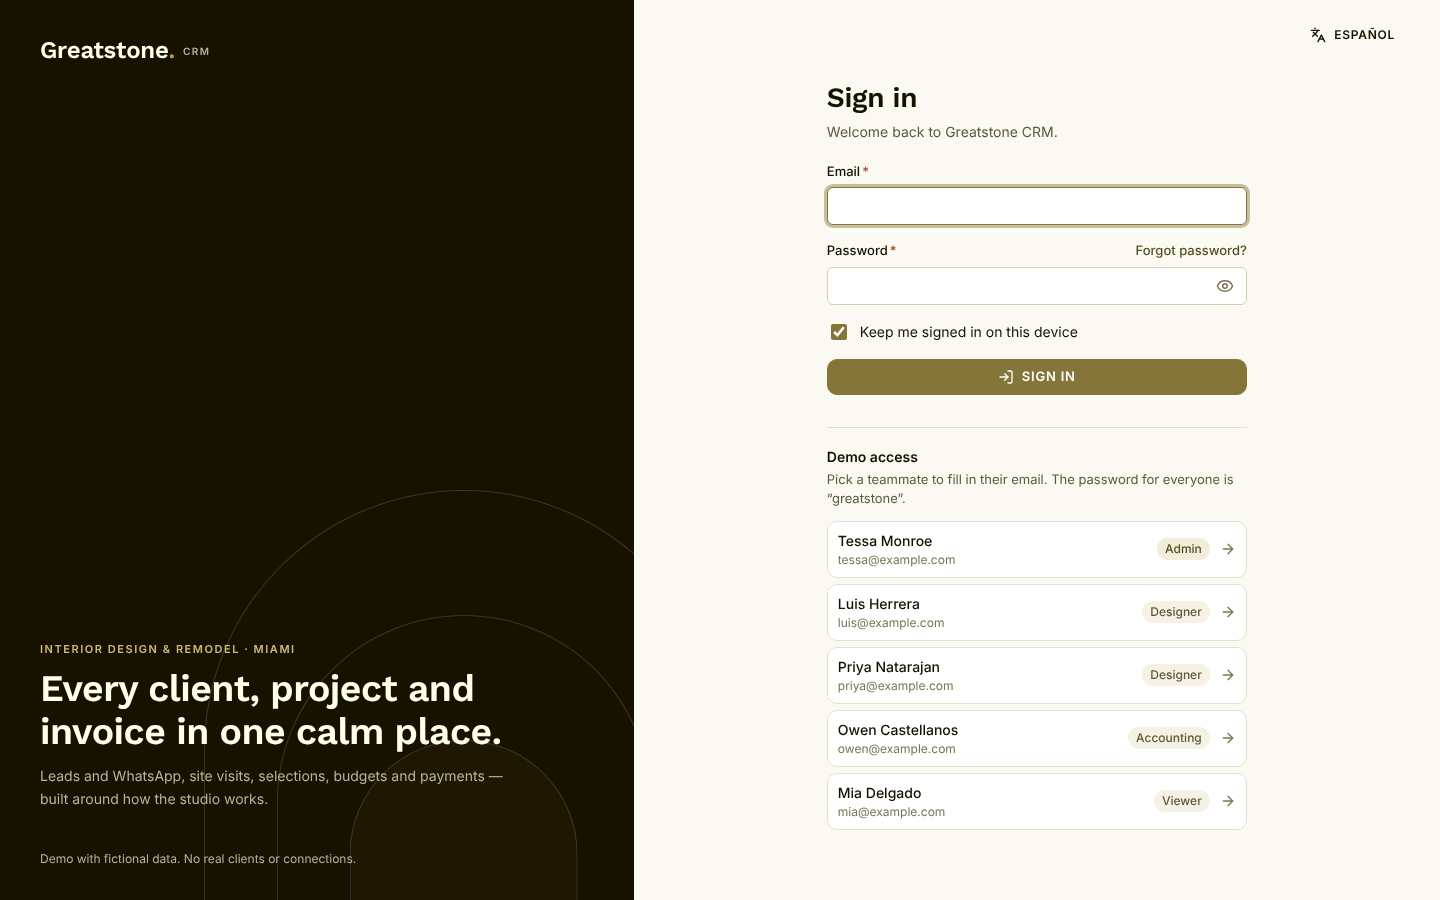
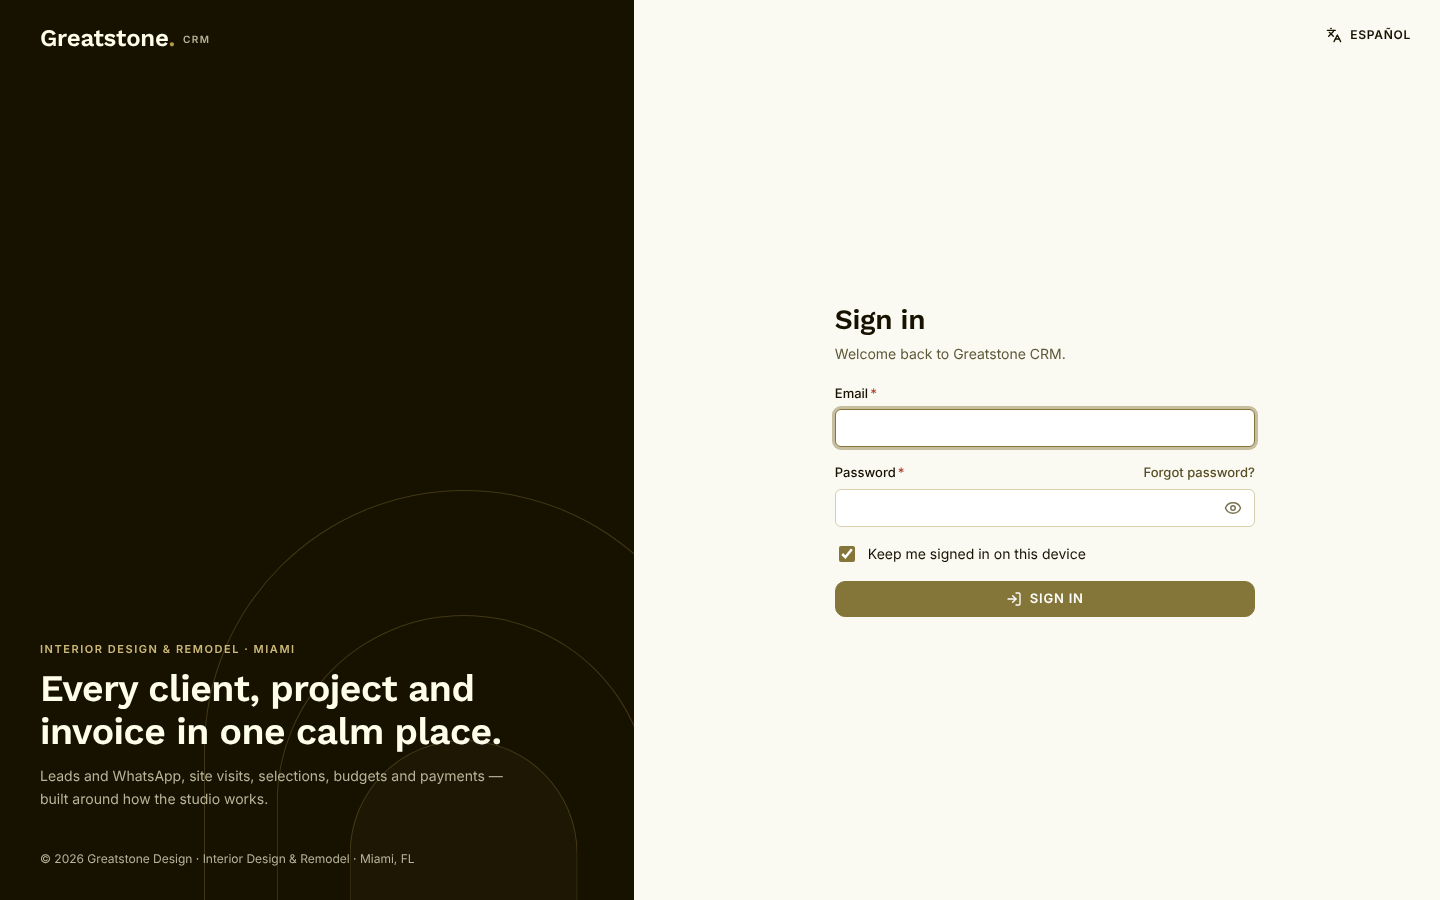
feat(auth): demo accounts moved off the sign-in screen into docs/DEMO_ACCOUNTS.md
- Login and password reset now look as they will in production: no "Demo access" list, no demo
  password hint, brand panel footer "© year Greatstone Design · …" instead of the demo note
- docs/DEMO_ACCOUNTS.md: emails, shared password, role and default permissions per account,
  things to try, QA notes, what to delete before going live
- authService.demoAccounts() removed; mobile login no longer stretches the brand header
- README, DECISIONS, STRUCTURE, API guide, development guide; screenshots 38–39 updated

Claude-Session: https://claude.ai/code/session_01LREVFYPMk61pKKYrWmKL75

diff --git a/src/pages/auth/LoginPage.jsx b/src/pages/auth/LoginPage.jsx
@@ -1,12 +1,10 @@
 import { useEffect, useState } from 'react';
 import { Link, Navigate, useLocation, useNavigate, useSearchParams } from 'react-router-dom';
-import { AlertCircle, ArrowRight, Eye, EyeOff, Info, Loader2, LogIn } from 'lucide-react';
+import { AlertCircle, Eye, EyeOff, Info, Loader2, LogIn } from 'lucide-react';
 import { useSession } from '../../app/SessionProvider.jsx';
-import { Badge, Button, Field, Input } from '../../components/ui/index.js';
+import { Button, Field, Input } from '../../components/ui/index.js';
 import useForm, { isEmail } from '../../hooks/useForm.js';
-import useResource from '../../hooks/useResource.js';
 import { useT } from '../../i18n/index.jsx';
-import { authService, DEMO_PASSWORD } from '../../services/index.js';
 import AuthLayout from './AuthLayout.jsx';
 
 /** Only same-app paths are accepted as ?next= (no open redirects). */
@@ -23,7 +21,6 @@ export default function LoginPage() {
   const next = safeNext(params.get('next'));
   const [show, setShow] = useState(false);
   const [error, setError] = useState(null);
-  const { data: demo } = useResource(() => authService.demoAccounts(), []);
   // The sign-out redirect already happened; later deep links should use ?next= again.
   useEffect(() => { if (session.signedOut) session.clearSignedOut(); }, []); // eslint-disable-line react-hooks/exhaustive-deps
 
@@ -46,8 +43,6 @@ export default function LoginPage() {
   });
 
   if (session.isAuthenticated) return <Navigate to={next} replace />;
-
-  const fillDemo = (u) => { form.set('email', u.email); form.set('password', DEMO_PASSWORD); setError(null); };
 
   return (
     <AuthLayout>
@@ -94,26 +89,6 @@ export default function LoginPage() {
           </Button>
         </form>
 
-        {demo?.length > 0 && (
-          <section className="auth__demo" aria-labelledby="demo-title">
-            <h2 id="demo-title" className="auth__demo-title">{t('auth.demoTitle')}</h2>
-            <p className="auth__demo-sub">{t('auth.demoSub', { password: DEMO_PASSWORD })}</p>
-            <ul className="auth__demo-list">
-              {demo.map((u) => (
-                <li key={u.id}>
-                  <button type="button" className="auth__demo-user" onClick={() => fillDemo(u)}>
-                    <span className="grow" style={{ minWidth: 0 }}>
-                      <span className="truncate" style={{ display: 'block', fontWeight: 500 }}>{u.name}</span>
-                      <span className="truncate subtle" style={{ display: 'block', fontSize: 12 }}>{u.email}</span>
-                    </span>
-                    <Badge tone={u.role === 'admin' ? 'accent' : 'neutral'}>{t(`roles.${u.role}`)}</Badge>
-                    <ArrowRight className="auth__demo-arrow" aria-hidden="true" />
-                  </button>
-                </li>
-              ))}
-            </ul>
-          </section>
-        )}
       </div>
     </AuthLayout>
   );

diff --git a/src/styles/layout.css b/src/styles/layout.css
@@ -318,7 +318,7 @@
 }
 
 /* ---------- Auth (sign in / reset password) ---------- */
-.auth { min-height: 100vh; min-height: 100dvh; display: grid; grid-template-columns: minmax(0, 1fr); background: var(--bg); }
+.auth { min-height: 100vh; min-height: 100dvh; display: grid; grid-template-columns: minmax(0, 1fr); grid-template-rows: auto 1fr; background: var(--bg); }
 .auth__brand { position: relative; overflow: hidden; background: var(--brand); color: var(--brand-contrast); padding: var(--sp-5) var(--sp-5) var(--sp-6); }
 .auth__brand-inner { position: relative; z-index: 1; display: flex; flex-direction: column; gap: var(--sp-4); height: 100%; }
 .auth__wordmark { font-size: 24px; margin: 0; }
@@ -355,15 +355,8 @@
 .pw-field__toggle { position: absolute; right: 4px; top: 50%; transform: translateY(-50%); width: 36px; height: 36px; display: grid; place-items: center; border: 0; background: none; color: var(--text-subtle); border-radius: var(--radius-sm); cursor: pointer; }
 .pw-field__toggle:hover { color: var(--text); background: var(--surface-2); }
 .pw-field__toggle svg { width: 18px; height: 18px; }
-.auth__demo { margin-top: var(--sp-8); padding-top: var(--sp-5); border-top: 1px solid var(--border); }
-.auth__demo-title { font-size: var(--fs-14); font-weight: var(--fw-semibold); }
-.auth__demo-sub { font-size: var(--fs-13); color: var(--text-muted); margin: 4px 0 var(--sp-3); }
-.auth__demo-list { list-style: none; margin: 0; padding: 0; display: grid; gap: 6px; }
-.auth__demo-user { width: 100%; display: flex; align-items: center; gap: 10px; padding: 8px 10px; border: 1px solid var(--border); border-radius: var(--radius); background: var(--surface); color: var(--text); text-align: left; cursor: pointer; font-size: var(--fs-14); }
-.auth__demo-user:hover { border-color: var(--accent); }
-.auth__demo-arrow { width: 16px; height: 16px; color: var(--text-subtle); flex: none; }
 @media (min-width: 900px) {
-  .auth { grid-template-columns: minmax(380px, 44%) minmax(0, 1fr); }
+  .auth { grid-template-columns: minmax(380px, 44%) minmax(0, 1fr); grid-template-rows: none; }
   .auth__brand { padding: var(--sp-8) var(--sp-10); position: sticky; top: 0; height: 100vh; height: 100dvh; }
   .auth__brand-inner { gap: 0; }
   .auth__pitch { margin-top: auto; }

diff --git a/src/i18n/es.js b/src/i18n/es.js
@@ -937,10 +937,10 @@ const es = {
     offlineDesc: 'Tras la primera visita, la app y los datos de demo cargan sin conexión.',
   },
   auth: {
+    footer: '© {year} Greatstone Design · Diseño de interiores y remodelación · Miami, FL',
     eyebrow: 'Diseño de interiores y remodelación · Miami',
     headline: 'Cada cliente, proyecto y factura en un solo lugar tranquilo.',
     lede: 'Leads y WhatsApp, visitas, selecciones, presupuestos y pagos, pensado para cómo trabaja el estudio.',
-    demoNote: 'Demo con datos ficticios. Sin clientes ni conexiones reales.',
     signInTitle: 'Iniciar sesión',
     signInSub: 'Bienvenido de nuevo a Greatstone CRM.',
     password: 'Contraseña',
@@ -958,15 +958,12 @@ const es = {
       too_many_attempts: 'Demasiados intentos. Prueba de nuevo en {s} segundos.',
       unknown: 'No pudimos iniciar tu sesión. Inténtalo en un momento.',
     },
-    demoTitle: 'Acceso de demo',
-    demoSub: 'Elige a alguien del equipo para rellenar su email. La contraseña de todos es “{password}”.',
     forgotTitle: 'Restablecer contraseña',
     forgotSub: 'Escribe tu email de trabajo y te enviaremos un enlace para elegir una contraseña nueva.',
     sendLink: 'Enviar enlace',
     sending: 'Enviando…',
     resetSentTitle: 'Revisa tu email',
     resetSentBody: 'Si existe una cuenta para {email}, te llegará un enlace. Caduca en 1 hora.',
-    resetDemo: 'Demo: no se envía ningún email. Usa la contraseña de demo para entrar.',
     backToSignIn: 'Volver a iniciar sesión',
   },
   states: {

diff --git a/src/i18n/en.js b/src/i18n/en.js
@@ -938,10 +938,10 @@ const en = {
     offlineDesc: 'After the first visit the app and demo data load without a connection.',
   },
   auth: {
+    footer: '© {year} Greatstone Design · Interior Design & Remodel · Miami, FL',
     eyebrow: 'Interior design & remodel · Miami',
     headline: 'Every client, project and invoice in one calm place.',
     lede: 'Leads and WhatsApp, site visits, selections, budgets and payments — built around how the studio works.',
-    demoNote: 'Demo with fictional data. No real clients or connections.',
     signInTitle: 'Sign in',
     signInSub: 'Welcome back to Greatstone CRM.',
     password: 'Password',
@@ -959,15 +959,12 @@ const en = {
       too_many_attempts: 'Too many attempts. Try again in {s} seconds.',
       unknown: 'We couldn’t sign you in. Try again in a moment.',
     },
-    demoTitle: 'Demo access',
-    demoSub: 'Pick a teammate to fill in their email. The password for everyone is “{password}”.',
     forgotTitle: 'Reset your password',
     forgotSub: 'Enter your work email and we’ll send you a link to choose a new password.',
     sendLink: 'Send reset link',
     sending: 'Sending…',
     resetSentTitle: 'Check your email',
     resetSentBody: 'If an account exists for {email}, a reset link is on its way. It expires in 1 hour.',
-    resetDemo: 'Demo: no email is sent. Use the demo password to sign in.',
     backToSignIn: 'Back to sign in',
   },
   states: {

diff --git a/src/services/authService.js b/src/services/authService.js
@@ -10,7 +10,8 @@
 import { auth, delay, table } from './client.js';
 
 const KEY = 'gs.auth';
-// Demo only: every fictional user signs in with this password. No real credentials exist in phase 1.
+// Demo only: every fictional user signs in with this password (accounts listed in docs/DEMO_ACCOUNTS.md).
+// No real credentials exist in phase 1.
 export const DEMO_PASSWORD = 'greatstone';
 const SHORT = 12 * 60 * 60 * 1000; // 12 h
 const LONG = 30 * 24 * 60 * 60 * 1000; // 30 days ("Keep me signed in")
@@ -79,7 +80,4 @@ export const authService = {
     void email;
     return delay({ ok: true });
   },
-
-  /** Demo helper for the sign-in screen (fictional team members and their roles). Not part of the real API. */
-  demoAccounts: () => delay(table('users').filter((u) => u.status !== 'inactive').map(({ id, name, email, role, title }) => ({ id, name, email, role, title }))),
 };

diff --git a/src/pages/auth/ForgotPasswordPage.jsx b/src/pages/auth/ForgotPasswordPage.jsx
@@ -24,7 +24,6 @@ export default function ForgotPasswordPage() {
             <span className="auth__icon" aria-hidden="true"><MailCheck /></span>
             <h1 className="auth__title">{t('auth.resetSentTitle')}</h1>
             <p className="auth__subtitle">{t('auth.resetSentBody', { email: sentTo })}</p>
-            <p className="field__hint">{t('auth.resetDemo')}</p>
             <Button to="/login" state={{ email: sentTo }} variant="primary" block icon={ArrowLeft}>{t('auth.backToSignIn')}</Button>
           </div>
         ) : (

diff --git a/src/pages/auth/AuthLayout.jsx b/src/pages/auth/AuthLayout.jsx
@@ -14,7 +14,7 @@ export default function AuthLayout({ children }) {
             <h2 className="auth__headline">{t('auth.headline')}</h2>
             <p className="auth__lede">{t('auth.lede')}</p>
           </div>
-          <p className="auth__foot">{t('auth.demoNote')}</p>
+          <p className="auth__foot">{t('auth.footer', { year: new Date().getFullYear() })}</p>
         </div>
         <div className="auth__arches" aria-hidden="true"><span /><span /><span /></div>
       </aside>

diff --git a/docs/DEMO_ACCOUNTS.md b/docs/DEMO_ACCOUNTS.md
@@ -1,0 +1,33 @@
+# Demo accounts (phase 1, mock data)
+
+The sign-in screen (`/login`) looks like it will in production: **no demo hints on it**. Use these fictional accounts to sign in. They exist only in the mock data (`src/data/mock/users.js`) and in the mock `authService`. The domain is `example.com`, so none of these mailboxes is real.
+
+**Password for every account:** `greatstone`
+
+| Name | Email | Role | Job title | What they can do (default permissions) |
+|---|---|---|---|---|
+| Tessa Monroe | `tessa@example.com` | **Admin** | Principal Designer | Everything, including Settings (users, permissions, billing, integrations) |
+| Luis Herrera | `luis@example.com` | Designer | Project Manager | CRM, Projects and AI in full. Finance view only. Settings read-only |
+| Priya Natarajan | `priya@example.com` | Designer | Interior Designer | Same as Luis |
+| Owen Castellanos | `owen@example.com` | Accounting | Operations & Accounting | Finance in full. CRM, Projects and AI view only. Settings read-only |
+| Mia Delgado | `mia@example.com` | Viewer | Studio Coordinator | Dashboard, CRM and Projects view only. **No access** to Finance, AI or Settings |
+
+The permission matrix can be changed in **Settings → Users & roles** (as Tessa). The changes last until the page is reloaded.
+
+## Things to try
+
+- **Wrong password** → "That email and password don't match". **5 wrong tries** → locked for 30 seconds.
+- **Keep me signed in** checked → session survives closing the browser (30 days); unchecked → only this tab (max 12 h).
+- **Deep link while signed out** (e.g. `/finance/invoices?status=overdue`) → sign in → you land back on that page.
+- **Forgot password?** → always answers "If an account exists…" (no email is sent in the demo).
+- **Sign out:** user menu (top-right avatar) → *Sign out*.
+- **Preview another role without signing out:** as Tessa, user menu → *View as role (demo)*.
+- A user **deactivated** in Settings → Users & roles can't sign in ("This account is deactivated").
+
+## For automated checks
+
+`scripts/qa/session.cjs` signs the browser in as Tessa (`u_1`) before the app loads. `npm run qa:audit` and `npm run qa:shot` use it. Use `SIGNED_OUT=1 npm run qa:shot -- /login login.png` to capture the sign-in screen.
+
+## Before going live
+
+Delete this file, `DEMO_PASSWORD` in `src/services/authService.js` and the mock users. Real accounts come from the backend (see `docs/API_INTEGRATION.md` → Auth).

diff --git a/README.md b/README.md
@@ -46,7 +46,7 @@ Every module in the brief is built. Step 8 is the final polish pass.
 
 ## Try it
 
-- **Sign in**: open the app → `/login`. Click any demo teammate (password `greatstone` for everyone): Tessa = admin, Luis/Priya = designer, Owen = accounting, Mia = viewer. User menu → **Sign out**.
+- **Sign in**: open the app → `/login` (it looks like production: no demo hints). Accounts and password are in **[`docs/DEMO_ACCOUNTS.md`](docs/DEMO_ACCOUNTS.md)**: one per role (admin, designer, accounting, viewer). User menu → **Sign out**.
 - **Collapse the sidebar** (button in the top-left corner or **Ctrl/⌘ + B**): it slides away, the module icons slide into the topbar with the submodules below, and pages use the extra width (more table columns, more cards per row).
 - **Ctrl/⌘ + K**: global search and command palette.
 - **+ New → Task / Appointment / Note**: quick **modal** forms. Try Esc with changes, Ctrl/⌘+Enter, and the inline validation.
@@ -96,6 +96,7 @@ The CRM is a **Progressive Web App**: it installs like a native app and works of
 
 ## Docs
 
+- **`docs/DEMO_ACCOUNTS.md`: demo sign-in accounts** (emails, password, what each role can do).
 - **`docs/DEVELOPMENT_GUIDE.md`: development guide (Spanish)**: architecture, design system, layout, patterns, components, i18n, auth, PWA, QA, recipes, and how to fork this repo into a simpler template.
 - `DECISIONS.md`: design decisions, brand values taken from the client site, and assumptions.
 - `STRUCTURE.md`: folder map, routes, and the "Action → Modal or Page" table.

diff --git a/DECISIONS.md b/DECISIONS.md
@@ -111,7 +111,7 @@ Instagram (@greatstonedesign) could not be checked because it requires a login. 
 
 ## Sign in / sign out (mock auth)
 - `/login` and `/forgot-password` sit outside the app shell. Every app route is protected (`RequireAuth`): a signed-out visitor goes to `/login?next=<page>` and comes back to the same page (with its filters) after signing in. Only same-app paths are accepted in `next` (no open redirects).
-- **Demo accounts**: the five fictional teammates, one per role, all with the password `greatstone`. The sign-in page lists them, so signing in as Owen (accounting) or Mia (viewer) shows real role permissions, not just the "view as" preview.
+- **Demo accounts**: five fictional teammates, one per role, all with the password `greatstone`. They are listed in `docs/DEMO_ACCOUNTS.md`, **not on the sign-in screen**, so the login looks exactly as it will in production. Signing in as Owen (accounting) or Mia (viewer) shows real role permissions, not just the "view as" preview.
 - "Keep me signed in" stores the session in localStorage (30 days); otherwise sessionStorage (closes with the tab, max 12 h). Sign out clears it and shows "You've signed out" with the email kept.
 - Errors are explicit and never reveal whether an email exists. After 5 wrong attempts sign-in locks for 30 s. Password reset always answers the same way.
 - `authService` has the contract of the real one (Supabase Auth or REST). See **`docs/API_INTEGRATION.md`**, the guide for wiring every service to a real backend.

diff --git a/STRUCTURE.md b/STRUCTURE.md
@@ -5,6 +5,7 @@ greatstone-crm/
 ├─ index.html · vite.config.js (React + PWA manifest/Workbox) · vercel.json (SPA rewrite)
 ├─ public/              favicon.svg · icons/ (PWA + Apple touch icons) · splash/ (iOS launch screens) · screenshots/ (install dialog)
 ├─ docs/brief/          original prompt (PDF + text)
+├─ docs/DEMO_ACCOUNTS.md  demo sign-in accounts (kept off the login screen)
 ├─ docs/API_INTEGRATION.md  guide to replace the mock services with a real API
 ├─ docs/DEVELOPMENT_GUIDE.md  how everything is built + how to fork it into a simpler template
 ├─ scripts/             qa/ (audit.cjs, shot.cjs, routes.cjs, session.cjs) · make-icons.cjs · make-splash.cjs
@@ -50,7 +51,7 @@ greatstone-crm/
 
 | Route | Screen | Status |
 |---|---|---|
-| `/login?next=` · `/forgot-password` | Sign in (demo accounts) · reset password — public | ✅ |
+| `/login?next=` · `/forgot-password` | Sign in · reset password — public (demo accounts: `docs/DEMO_ACCOUNTS.md`) | ✅ |
 | `/` | Dashboard (`?range=`) | ✅ |
 | `/crm/communications/whatsapp?c=&f=&q=` | WhatsApp inbox (list · thread · contact panel) | ✅ |
 | `/crm/communications/sms?c=&f=&q=` | SMS / MMS inbox (consent, STOP, quiet hours, segments) | ✅ |

diff --git a/docs/DEVELOPMENT_GUIDE.md b/docs/DEVELOPMENT_GUIDE.md
@@ -450,7 +450,7 @@ t('settings.users.invited', { email });  // 'Invitation sent to {email}'
 | `assistantEnabled` | Settings → IA |
 | `refresh()` | fuerza re-render tras guardar ajustes globales (permisos, acento) |
 
-- **Login mock:** `authService` (contrato real, ver `API_INTEGRATION.md`). Hay cuentas demo, una por rol, todas con la contraseña `greatstone`. "Mantener sesión" usa localStorage (30 días); si no, sessionStorage (12 h).
+- **Login mock:** `authService` (contrato real, ver `API_INTEGRATION.md`). Hay cuentas demo, una por rol, todas con la contraseña `greatstone`, listadas en `docs/DEMO_ACCOUNTS.md` (no en la pantalla de login, que se ve como en producción). "Mantener sesión" usa localStorage (30 días); si no, sessionStorage (12 h).
 - **Permisos:** `AppLayout` cambia el contenido por `NoAccess` si `access(módulo) === 'none'`. Settings queda en solo lectura si no es `full`. El botón de IA se oculta sin acceso a IA. **El servidor debe aplicar la misma matriz** (RLS).
 
 ---
